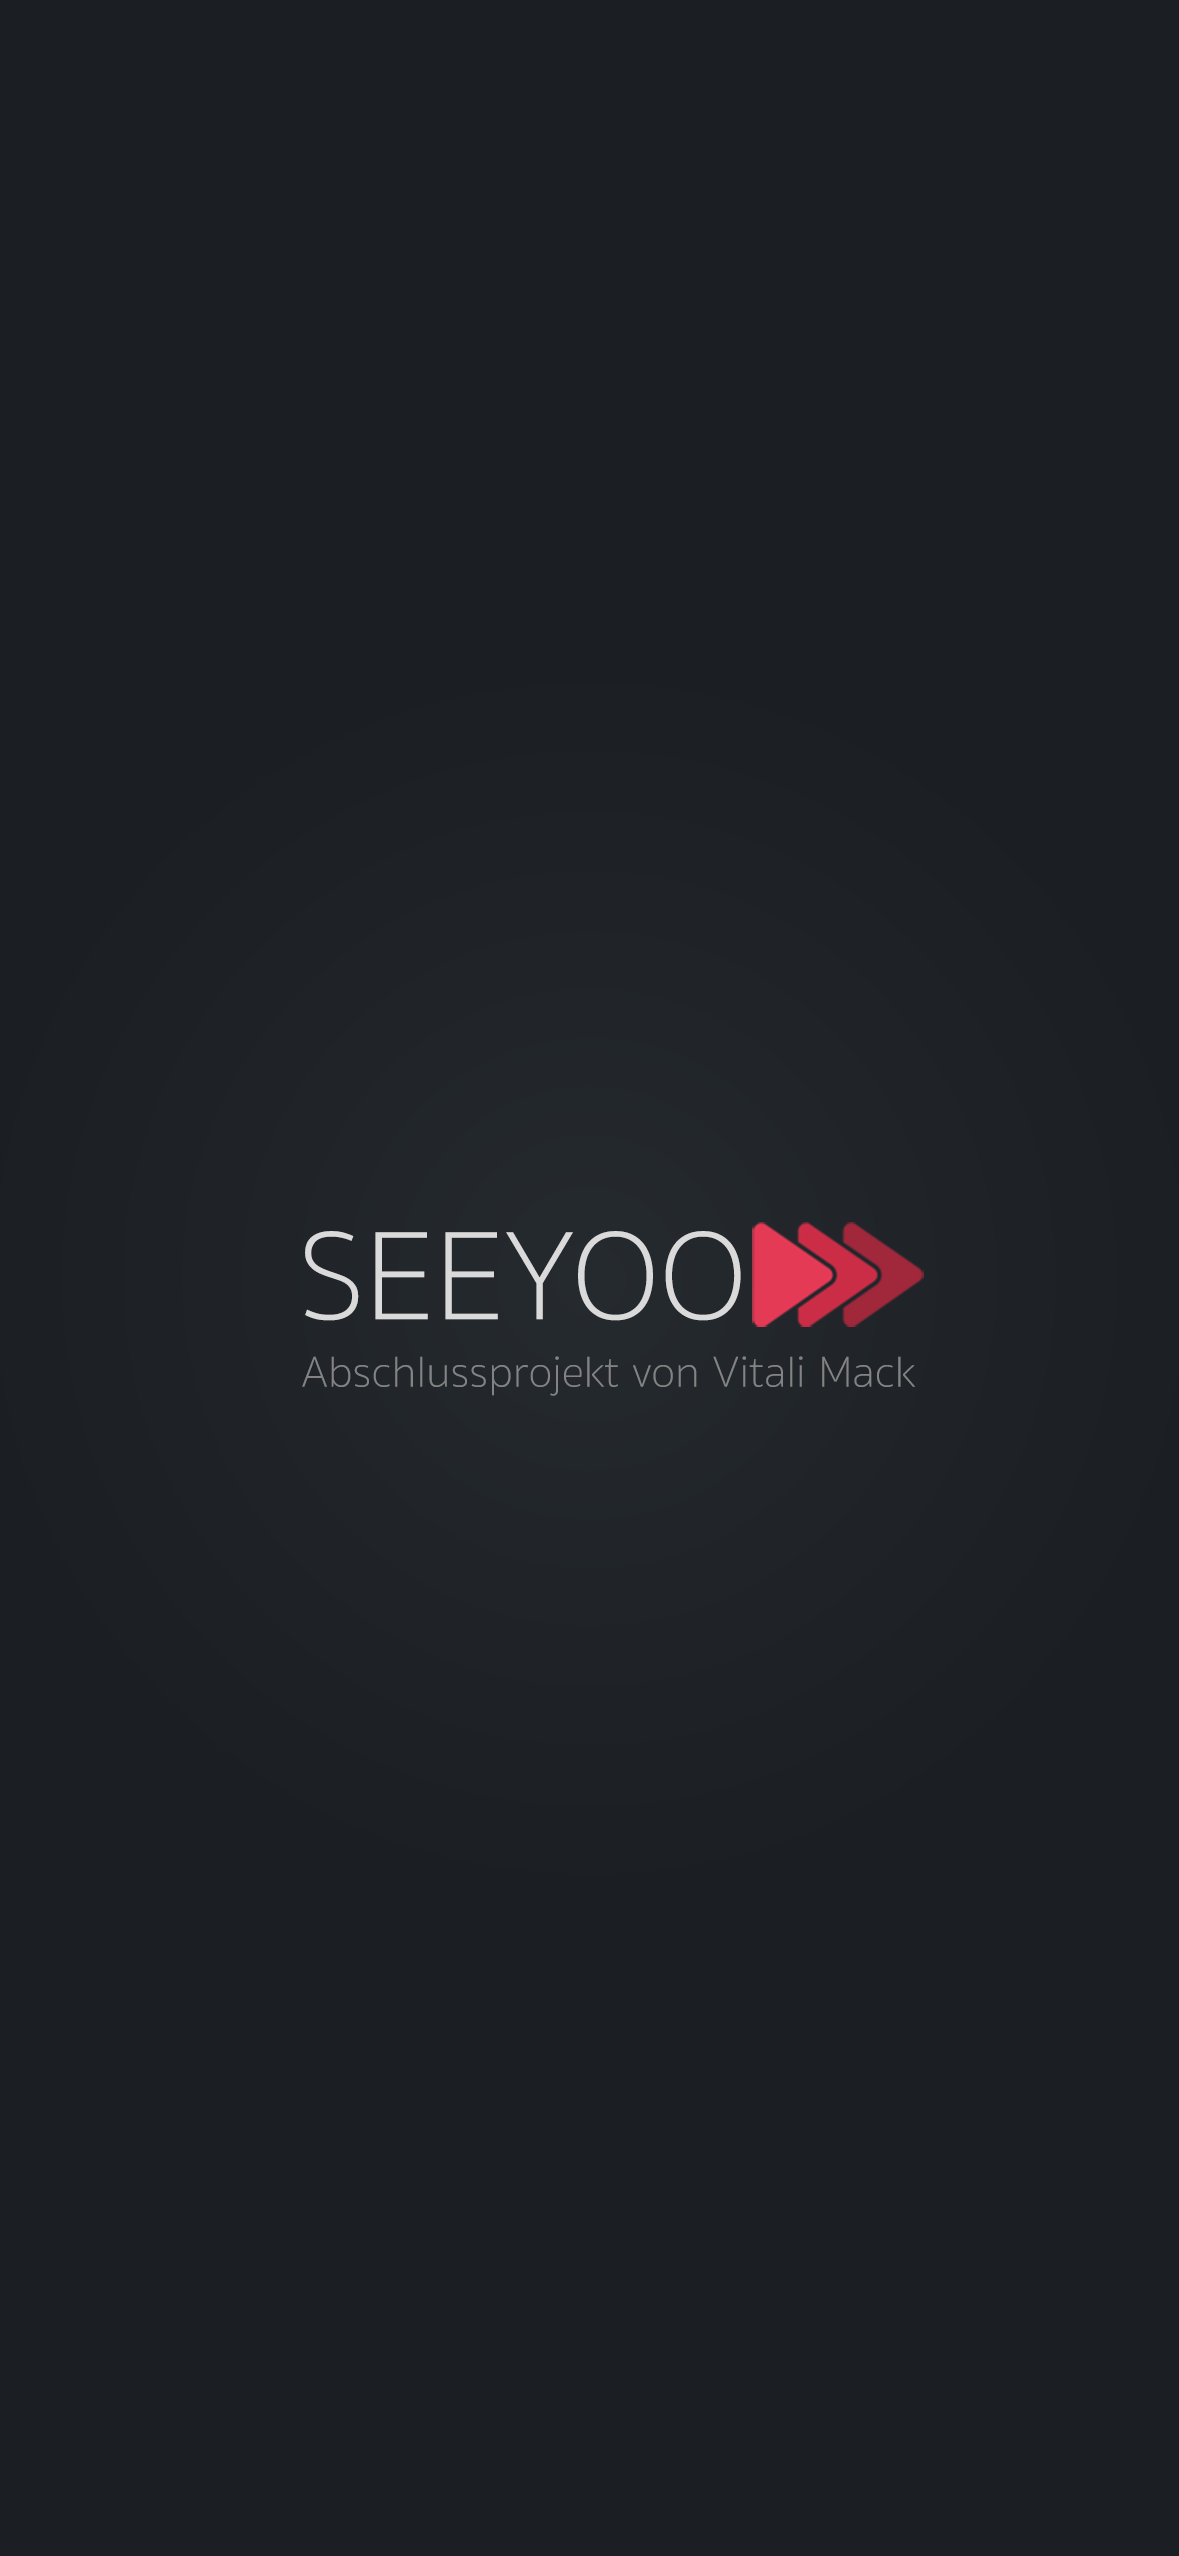
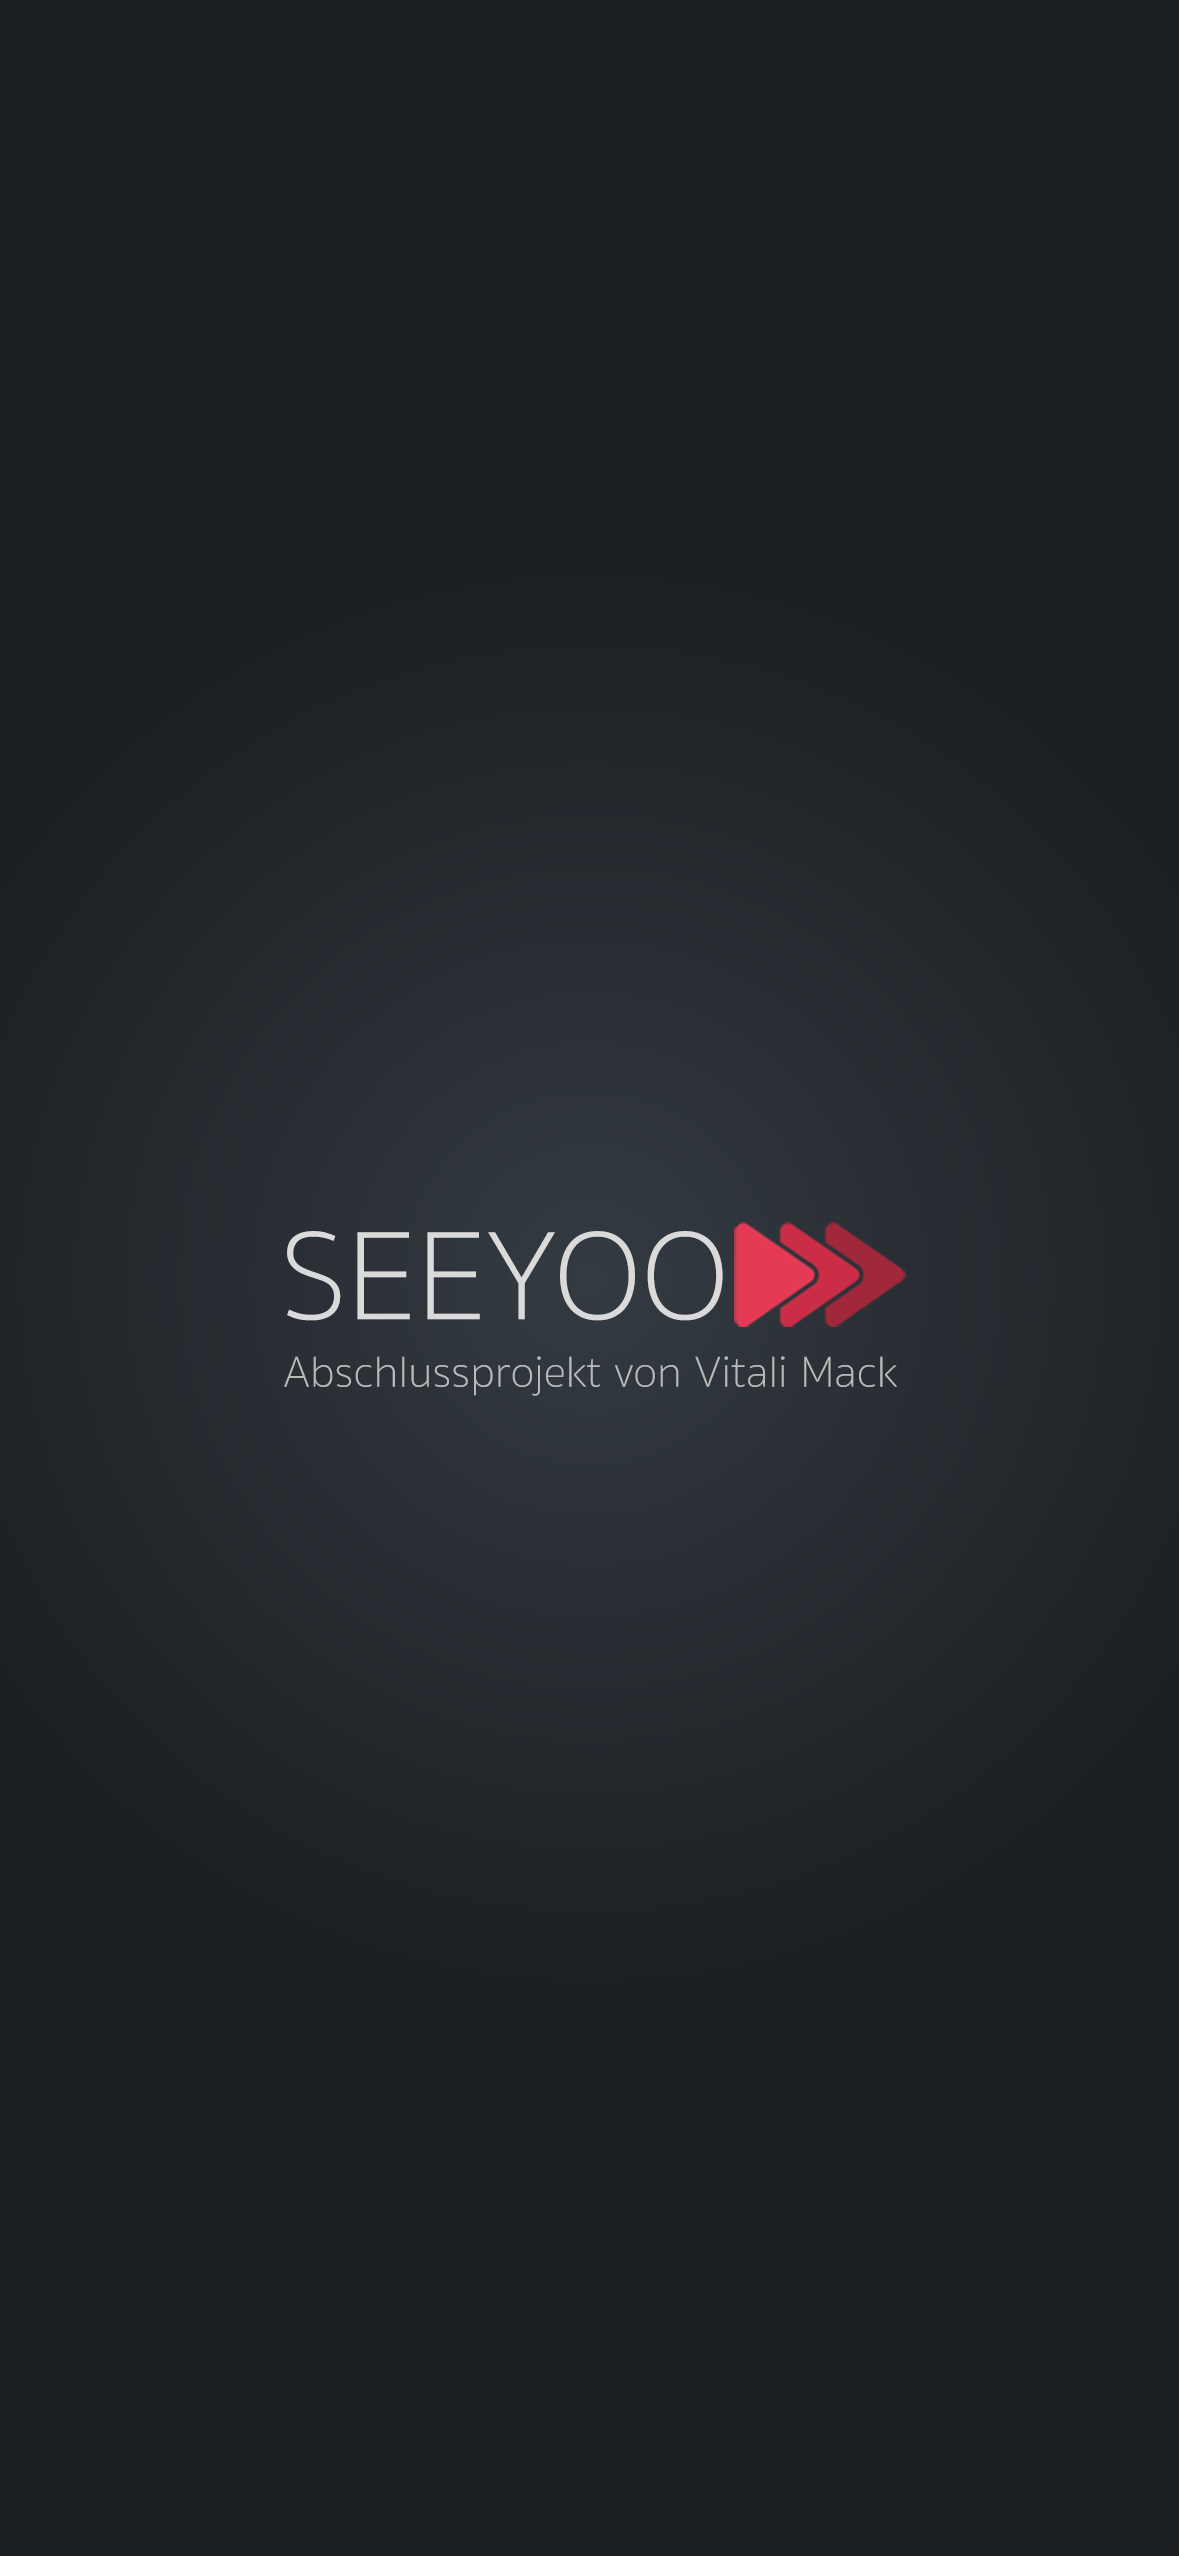
Justify a splash_screen sequenz and adding from HG.png

Changed region(s): [[0.3969, 0.4636, 0.7939, 0.5563], [0.2443, 0.4636, 0.3969, 0.5563]]

diff --git a/seeyoo_app/lib/screens/splash_screen.dart b/seeyoo_app/lib/screens/splash_screen.dart
@@ -18,7 +18,7 @@ class _SplashScreenState extends State<SplashScreen> with SingleTickerProviderSt
     super.initState();
     _controller = AnimationController(
       vsync: this,
-      duration: const Duration(milliseconds: 800), // Dauer des Fade-In Effekts
+      duration: const Duration(milliseconds: 800),
     );
 
     _fadeAnimation = Tween<double>(begin: 0.0, end: 1.0).animate(
@@ -29,21 +29,37 @@ class _SplashScreenState extends State<SplashScreen> with SingleTickerProviderSt
     );
 
     // Starte den Fade-In Effekt
-    _controller.forward();
+    _controller.forward().then((_) {
+      // Nach dem Fade-In 3 Sekunden warten, dann Fade-Out und Navigation
+      Timer(const Duration(milliseconds: 3000), _navigateToHome);
+    });
+  }
 
-    // Nach dem Fade-In 3 Sekunden warten, dann Fade-Out und Navigation
-    Timer(const Duration(milliseconds: 3800), () {
-      _controller.reverse().then((_) {
+
+  void _navigateToHome() {
+    if (!mounted) return;
+    
+    _controller.reverse().then((_) {
+      if (!mounted) return;
+      
+      try {
         Navigator.of(context).pushReplacement(
           PageRouteBuilder(
             pageBuilder: (context, animation1, animation2) => const HomeScreen(),
             transitionDuration: Duration.zero,
           ),
         );
-      });
+      } catch (e) {
+        print('Navigation error: $e');
+        // Fallback Navigation falls die erste Methode fehlschlägt
+        if (mounted) {
+          Navigator.of(context).pushReplacement(
+            MaterialPageRoute(builder: (_) => const HomeScreen()),
+          );
+        }
+      }
     });
   }
-
 
   @override
   void dispose() {
@@ -54,10 +70,9 @@ class _SplashScreenState extends State<SplashScreen> with SingleTickerProviderSt
   @override
   Widget build(BuildContext context) {
     return Scaffold(
-      backgroundColor: Colors.white, // Hintergrundfarbe anpassen
+      backgroundColor: Colors.transparent,
       body: Container(
-        width: double.infinity,
-        height: double.infinity,
+        color: Colors.transparent,
         child: FadeTransition(
           opacity: _fadeAnimation,
           child: Image.asset(
